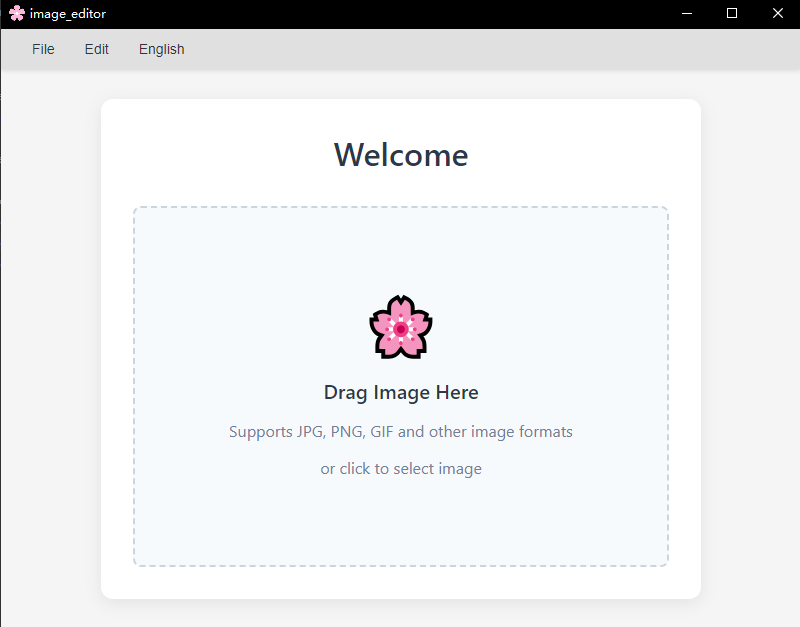
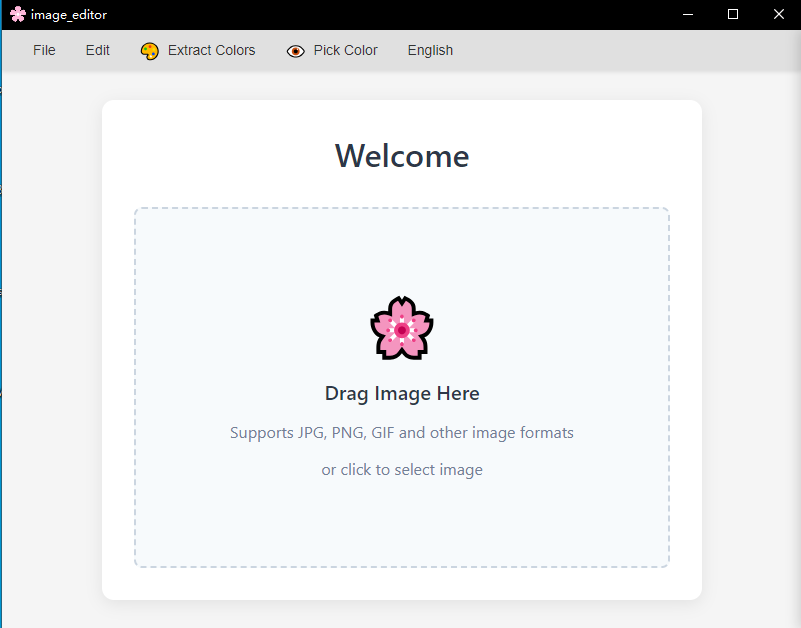
update readme
update readme

diff --git a/src/components/Toolbar.tsx b/src/components/Toolbar.tsx
@@ -59,14 +59,6 @@ const Toolbar: React.FC<ToolbarProps> = ({ onToolSelect, disabled = false }) => 
         // { id: 'flip', label: t('toolbar.edit.flip') },
       ]
     },
-    {
-      id: 'language',
-      label: language === 'zh-CN' ? '中文' : 'English',
-      children: [
-        { id: 'zh-CN', label: '中文', icon: '🇨🇳' },
-        { id: 'en-US', label: 'English', icon: '🇺🇸' },
-      ]
-    },
     { id: 'extract-colors',
       label: t('toolbar.edit.extract-colors'),
       icon: '🎨'
@@ -74,6 +66,14 @@ const Toolbar: React.FC<ToolbarProps> = ({ onToolSelect, disabled = false }) => 
     { id: 'pick-color',
       label: t('toolbar.edit.pick-color'),
       icon: '👁'
+    },
+    {
+      id: 'language',
+      label: language === 'zh-CN' ? '中文' : 'English',
+      children: [
+        { id: 'zh-CN', label: '中文', icon: '🇨🇳' },
+        { id: 'en-US', label: 'English', icon: '🇺🇸' },
+      ]
     }
   ];
 

diff --git a/README.md b/README.md
@@ -13,8 +13,10 @@ npm run tauri build
 - Crop the image
 - Resize the image
 - Save the image in different formats (JPEG, PNG, ICO)
-
+- Extract colors from the image
+- Pick color from the image
 ## Screenshot
 ![1](./screenshot/1.png)
 ![2](./screenshot/2.png)
 ![3](./screenshot/3.png)
+![4](./screenshot/4.png)
